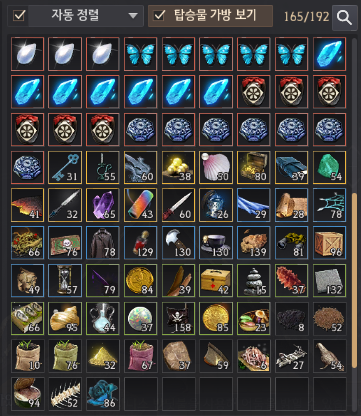
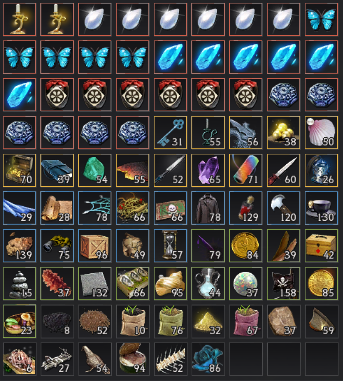
ㄴㅇㅎㅇㄴ

diff --git a/portal/assets/css/black.css b/portal/assets/css/black.css
@@ -10,6 +10,8 @@
 #메인사이드와우측을함께담은div #main사이드 div:nth-of-type(2) {background-color:white;}
 #메인사이드와우측을함께담은div #main사이드우측의_코딩결과div {vertical-align: top;width:1400px;}
 
+#S1_에페리아창고사진 {position: absolute;width:342px;height:116px;top:245px;left:520px; background-image:url('../../../portal/images/black_문서/S1_창고_에페리아.png');background-position: -1px -1px;}
+#S1_일리야창고사진 {position: absolute;width:342px;height:380px;top:245px;left:862px; background-image:url('../../../portal/images/black_문서/S1_창고_일리야.png');background-position: -1px -1px;}
 #S1_해역사진 > div:first-child {position:fixed;background-color: white;display:block;width:100%;;padding-bottom:2px;}
 #S1_해역사진 #교섭력계산 {width:450px;vertical-align: top;margin-right:5px;}
 #S1_해역사진 #교섭력계산 #남은_차감후_교섭력 {width:110px; border-right:1px solid black;}
@@ -112,6 +114,8 @@
 #파템재료_일퀘개수 > div:first-child > button {height:73px;}
 #파템재료_일퀘개수 > div:first-child > div {display: inline-block;}
 
+#재료모은거 #재료모은거_에페리아전체사진일부 {position: absolute;width:342px;height:116px; background-image:url('../../../portal/images/black_문서/S1_창고_에페리아.png');background-position: -1px -1px;}
+
 #재료모은거 > #설명 > h6 {width:700px; height:38px;margin:1px 0px;border:1px solid black;margin-bottom:-2px;padding-top:10px;}
 #재료모은거 > #설명 > h6:nth-of-type(1) {background-color: cadetblue;}/* 검은무쇠이빨*/
 #재료모은거 > #설명 > h6:nth-of-type(4), #재료모은거 > #설명 > h6:nth-of-type(9) {margin-bottom:5px;}/* 아래 띄우기 맞추기*/
@@ -164,23 +168,23 @@
 #파템재료_재료아이콘 > div[class~="아이콘"][data="순수한 암초조각"]               {background-image:url('../../../portal/images/black_문서/S2_재료아이콘추출용.png');background-position: -192px -126px;}
 #파템재료_재료아이콘 > div[class~="아이콘"][data="콕스유물 하급"]                 {background-image:url('../../../portal/images/black_문서/S2_재료아이콘추출용.png');background-position: -192px -254px;}
 #파템재료_재료아이콘 > div[class~="아이콘"][data="강화된 섬나무 증착합판"]        {background-image:url('../../../portal/images/black_문서/S2_재료아이콘추출용.png');background-position: -0px -126px;}
-#파템재료_가방아이콘 > div[class~="아이콘"]:nth-of-type(3) {background-image:url('../../../portal/images/black_문서/S2_재료모은것.png');background-position: -2px -1px;}
-#파템재료_가방아이콘 > div[class~="아이콘"]:nth-of-type(4) {background-image:url('../../../portal/images/black_문서/S2_재료모은것.png');background-position: -191px -1px;}
-#파템재료_가방아이콘 > div[class~="아이콘"]:nth-of-type(5) {background-image:url('../../../portal/images/black_문서/S2_재료모은것.png');background-position: -229px -1px;}
-#파템재료_가방아이콘 > div[class~="아이콘"]:nth-of-type(6) {background-image:url('../../../portal/images/black_문서/S2_재료모은것.png');background-position: -267px -1px;}
-#파템재료_가방아이콘 > div[class~="아이콘"]:nth-of-type(7) {background-image:url('../../../portal/images/black_문서/S2_재료모은것.png');background-position: -304px -1px;}
-#파템재료_가방아이콘 > div[class~="아이콘"]:nth-of-type(8) {background-image:url('../../../portal/images/black_문서/S2_재료모은것.png');background-position: -2px -39px;}
-#파템재료_가방아이콘 > div[class~="아이콘"]:nth-of-type(9) {background-image:url('../../../portal/images/black_문서/S2_재료모은것.png');background-position: -40px -39px;}
-#파템재료_가방아이콘 > div[class~="아이콘"]:nth-of-type(10) {background-image:url('../../../portal/images/black_문서/S2_재료모은것.png');background-position: -115px -39px;}
-#파템재료_가방아이콘 > div[class~="아이콘"]:nth-of-type(11) {background-image:url('../../../portal/images/black_문서/S2_재료모은것.png');background-position: -153px -39px;} /*달의 비늘이 새겨진 합판*/
-#파템재료_가방아이콘 > div[class~="아이콘"]:nth-of-type(12) {background-image:url('../../../portal/images/black_문서/S2_재료모은것.png');background-position: -191px -39px;}
-#파템재료_가방아이콘 > div[class~="아이콘"]:nth-of-type(13) {background-image:url('../../../portal/images/black_문서/S2_재료모은것.png');background-position: -229px -39px;}
-#파템재료_가방아이콘 > div[class~="아이콘"]:nth-of-type(14) {background-image:url('../../../portal/images/black_문서/S2_재료모은것.png');background-position: -266px -39px;}/*파도빛이 감도는 규격 각목*/
-#파템재료_가방아이콘 > div[class~="아이콘"]:nth-of-type(15) {background-image:url('../../../portal/images/black_문서/S2_재료모은것.png');background-position: -304px -39px;}
-#파템재료_가방아이콘 > div[class~="아이콘"]:nth-of-type(16) {background-image:url('../../../portal/images/black_문서/S2_재료모은것.png');background-position: -1px -78px;}
-#파템재료_가방아이콘 > div[class~="아이콘"]:nth-of-type(17) {background-image:url('../../../portal/images/black_문서/S2_재료모은것.png');background-position: -41px -78px;}
-#파템재료_가방아이콘 > div[class~="아이콘"]:nth-of-type(18) {background-image:url('../../../portal/images/black_문서/S2_재료모은것.png');background-position: -78px -78px;}
-#파템재료_가방아이콘 > div[class~="아이콘"]:nth-of-type(19) {background-image:url('../../../portal/images/black_문서/S2_재료모은것.png');background-position: -115px -78px;;}
+#파템재료_가방아이콘 > div[class~="아이콘"]:nth-of-type(3) {background-image:url('../../../portal/images/black_문서/S1_창고_에페리아.png');background-position: -2px -1px;}
+#파템재료_가방아이콘 > div[class~="아이콘"]:nth-of-type(4) {background-image:url('../../../portal/images/black_문서/S1_창고_에페리아.png');background-position: -191px -1px;}
+#파템재료_가방아이콘 > div[class~="아이콘"]:nth-of-type(5) {background-image:url('../../../portal/images/black_문서/S1_창고_에페리아.png');background-position: -229px -1px;}
+#파템재료_가방아이콘 > div[class~="아이콘"]:nth-of-type(6) {background-image:url('../../../portal/images/black_문서/S1_창고_에페리아.png');background-position: -267px -1px;}
+#파템재료_가방아이콘 > div[class~="아이콘"]:nth-of-type(7) {background-image:url('../../../portal/images/black_문서/S1_창고_에페리아.png');background-position: -304px -1px;}
+#파템재료_가방아이콘 > div[class~="아이콘"]:nth-of-type(8) {background-image:url('../../../portal/images/black_문서/S1_창고_에페리아.png');background-position: -2px -39px;}
+#파템재료_가방아이콘 > div[class~="아이콘"]:nth-of-type(9) {background-image:url('../../../portal/images/black_문서/S1_창고_에페리아.png');background-position: -40px -39px;}
+#파템재료_가방아이콘 > div[class~="아이콘"]:nth-of-type(10) {background-image:url('../../../portal/images/black_문서/S1_창고_에페리아.png');background-position: -115px -39px;}
+#파템재료_가방아이콘 > div[class~="아이콘"]:nth-of-type(11) {background-image:url('../../../portal/images/black_문서/S1_창고_에페리아.png');background-position: -153px -39px;} /*달의 비늘이 새겨진 합판*/
+#파템재료_가방아이콘 > div[class~="아이콘"]:nth-of-type(12) {background-image:url('../../../portal/images/black_문서/S1_창고_에페리아.png');background-position: -191px -39px;}
+#파템재료_가방아이콘 > div[class~="아이콘"]:nth-of-type(13) {background-image:url('../../../portal/images/black_문서/S1_창고_에페리아.png');background-position: -229px -39px;}
+#파템재료_가방아이콘 > div[class~="아이콘"]:nth-of-type(14) {background-image:url('../../../portal/images/black_문서/S1_창고_에페리아.png');background-position: -266px -39px;}/*파도빛이 감도는 규격 각목*/
+#파템재료_가방아이콘 > div[class~="아이콘"]:nth-of-type(15) {background-image:url('../../../portal/images/black_문서/S1_창고_에페리아.png');background-position: -304px -39px;}
+#파템재료_가방아이콘 > div[class~="아이콘"]:nth-of-type(16) {background-image:url('../../../portal/images/black_문서/S1_창고_에페리아.png');background-position: -1px -78px;}
+#파템재료_가방아이콘 > div[class~="아이콘"]:nth-of-type(17) {background-image:url('../../../portal/images/black_문서/S1_창고_에페리아.png');background-position: -41px -78px;}
+#파템재료_가방아이콘 > div[class~="아이콘"]:nth-of-type(18) {background-image:url('../../../portal/images/black_문서/S1_창고_에페리아.png');background-position: -78px -78px;}
+#파템재료_가방아이콘 > div[class~="아이콘"]:nth-of-type(19) {background-image:url('../../../portal/images/black_문서/S1_창고_에페리아.png');background-position: -115px -78px;;}
 #파템재료_일퀘개수 button[title] {background-color: chartreuse;}
 #리스너용섬이름검색 form {display:inline-block;}
 #교섭력계산 > #차감input들 > div {display:inline-block;}

diff --git a/black.html b/black.html
@@ -318,12 +318,12 @@
           <input type = "text" maxlength = "10"><button>1</button>
           <input type = "text" maxlength = "10"><button>1</button>
           <input type = "text" maxlength = "10"><button>1</button>
-          <div id="S1_일리야에페리아창고">일리에페</div><!-- width등-->
+          <div id="S1_일리야에페리아창고" style="background-color: aqua;">일리에페</div><!-- width등-->
           <br>
           <input type = "text" maxlength = "10"><button>1</button>
           <input type = "text" maxlength = "10"><button>1</button>
           <input type = "text" maxlength = "10"><button>1</button>
-          <div id="물품단계클릭시">물품단계</div><!-- width등-->
+          <div id="물품단계클릭시" style="background-color: aqua;">물품단계</div><!-- width등-->
           <br>
           <input type = "text" maxlength = "10"><button>1</button>
           <input type = "text" maxlength = "10"><button>1</button>
@@ -348,7 +348,7 @@
         </div>
         <h6 class="무게input들">▢ <span>배+장비무게</span>
           <input onchange="계산_무게()" id="계산_배와장비무게" type = "text" maxlength = "10" value="14300">
-          <span>, 최대적재</span>
+          <span style="background-color: aqua;" title="구축함:">, 최대적재</span>
           <input id="계산_최대적재" type = "text" maxlength = "10" value="빈칸">
           <span>, </span>
           <input onchange="계산_무게()" id="계산_일반등무게" type = "text" maxlength = "10" value="609">
@@ -524,8 +524,8 @@
 
         </div>
         <img src="portal/images/black_문서/S1_해역사진.png" alt="이미지없음"><!--margin-bottom:2px;margin-left:-8px;-->
-        <img id="S1_일리야창고" style="position: absolute;left:670px;visibility:hidden;" src="portal/images/black_문서/S1_창고_일리야.png" alt="이미지없음"><!--margin-bottom:2px;margin-left:-8px;-->
-        <img id="S1_에페리아창고" style="position: absolute;left:510px;visibility:hidden;" src="portal/images/black_문서/S1_창고_에페리아.png" alt="이미지없음"><!--margin-bottom:2px;margin-left:-8px;-->
+        <div id="S1_일리야창고사진" style="visibility: hidden;"></div>
+        <div id="S1_에페리아창고사진" style="visibility: hidden;"></div>
         <br><br><br><br><br><br><br><br><br><br><br><br><br><br><br><br><br><br><br><br>
         <br><br><br><br><br><br><br><br><br><br><br><br><br><br><br><br><br><br><br><br>
       </div>
@@ -641,7 +641,7 @@
           </div>
 
           <div id="재료모은거" class="d-inline-block 재료높이" style="vertical-align: top;padding-right:3px;">
-            <img style="position:absolute" src="portal/images/black_문서/S2_재료모은것.png" alt="이미지없음">
+            <div id="재료모은거_에페리아전체사진일부"></div>
             <div style="position:absolute;left:1218px;top:3px;">
               <h6><b><i><u style="color:blueviolet">중범파템용 : 온기 35, 한기 80</u></i></b></h6>
               <h6><b><i><u style="color:blueviolet">토로용 : 온기 280, 한기 360, 치료용 더 많이!!</u></i></b></h6>
